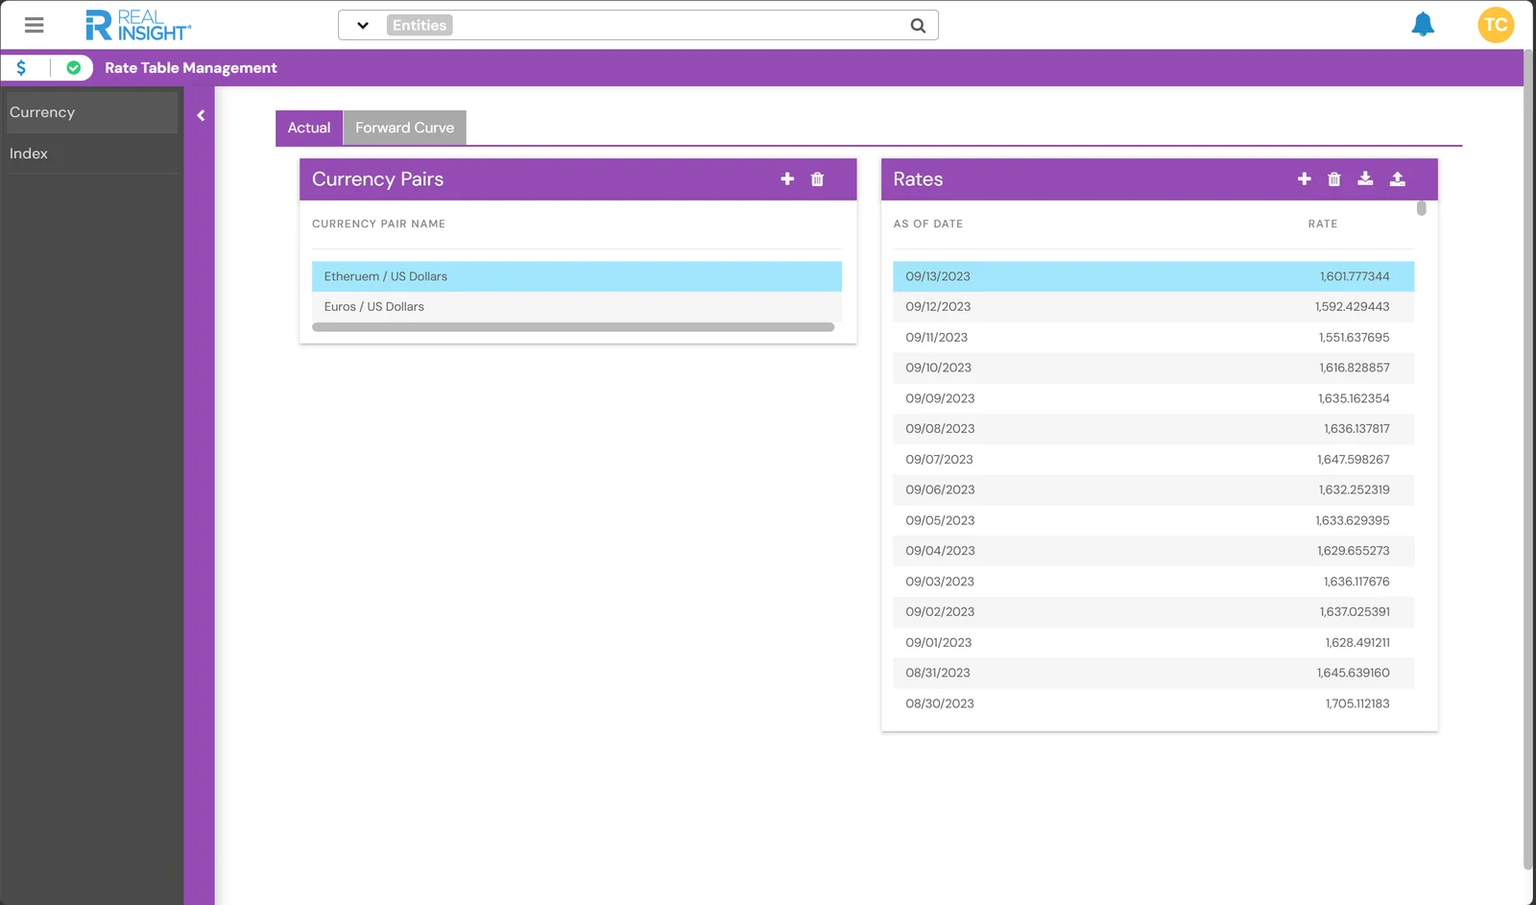
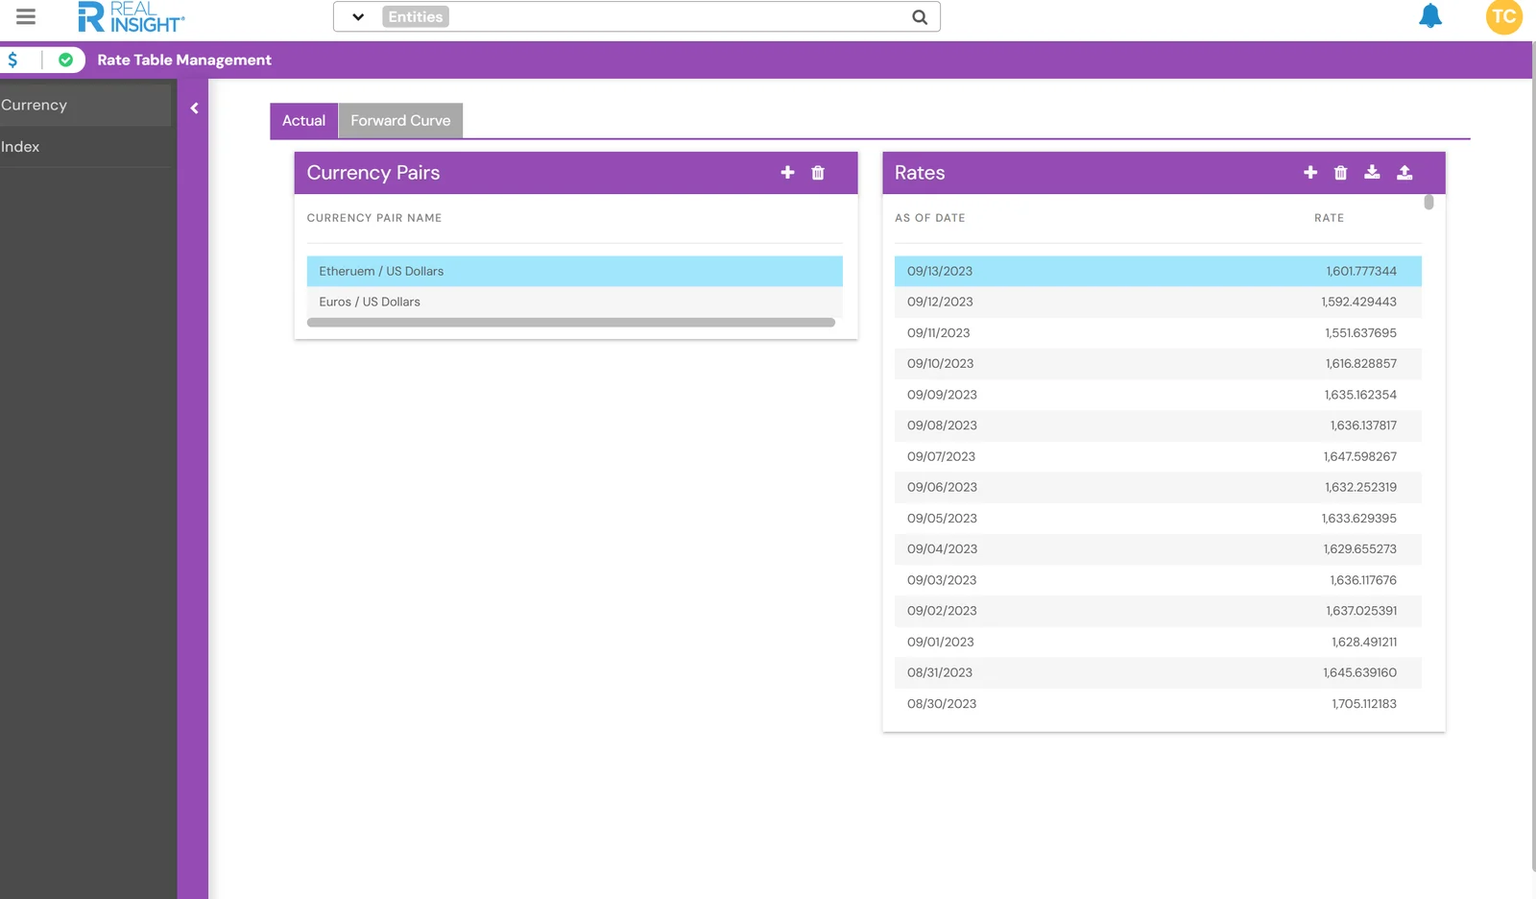
Case study: clean crops on bento screenshots, no outline ring
Claude-Session: https://claude.ai/code/session_018hSkEAj9eib2AmZfRNussD

diff --git a/work/realinsight-design-system.html b/work/realinsight-design-system.html
@@ -48,7 +48,7 @@
 <a class="label ri-back-m" href="../index.html" style="text-decoration:none">← All work</a><div style="display: flex; flex-direction: column; gap: 24px"><h1 id="ri-title" style="margin: 0; font-size: 52px; line-height: 1.05; letter-spacing: -0.03em; font-weight: 600">The building of RealInsight's design system</h1><p class="lede">An evolving system of tokens and components that support the complexities of commercial real estate finance technology.</p><div style="display: grid; grid-template-columns: repeat(4, minmax(0, 1fr)); gap: 16px; padding: 20px 0; border-top: 1px solid #ececf1; border-bottom: 1px solid #ececf1"><div style="display: flex; flex-direction: column; gap: 4px"><span class="mono">Role</span><span>Product Designer</span></div><div style="display: flex; flex-direction: column; gap: 4px"><span class="mono">Timeline</span><span class="ph">June 2026 - Present</span></div><div style="display: flex; flex-direction: column; gap: 4px"><span class="mono">Team</span><span>Tiffany Chang, Designer<br/>JP Eiler, Developer</span></div><div style="display: flex; flex-direction: column; gap: 4px"><span class="mono">Tools</span><span>Figma<br/>Claude<br/>Codex</span></div></div><p>RealInsight is a cloud platform that banks, debt funds, insurers and agency lenders use to manage commercial real estate loans, from origination and underwriting through servicing and asset management. Over the years each module grew its own interface, built on three separate component libraries with no designer involved. I built the platform's first unified design system: semantic tokens with light and dark modes, 30 components, and a Figma library that stays in sync with code.</p></div><div class="hx-wrap"><div class="hx" role="img" aria-label="Animation: the RealInsight Figma file moving from color tokens to buttons, components and a finished invoices screen that switches to dark mode"><div class="hx-win"><div class="hx-bar"><span class="hx-dots"><i></i><i></i><i></i></span><span class="hx-file">Drafts / <b>RealInsight-Design</b></span><span style="font: 600 10px/1 Geist, sans-serif; color: #fff; background: #f2542d; width: 18px; height: 18px; border-radius: 50%; display: grid; place-items: center">T</span></div><div class="hx-body"><div class="hx-pages"><h6>Pages</h6><ul><i class="hx-hl"></i><li>Cover</li><li>Color</li><li>Typography</li><li>Spacing & radii</li><li>Buttons</li><li>Components</li><li>Icons</li><li>Invoices</li></ul></div><div class="hx-cv"><div class="hx-sc" style="animation-delay: 0s"><div class="hx-frame"><div class="hx-flabel">Color / Semantic tokens</div><div style="display: grid; grid-template-columns: repeat(12, 22px); gap: 6px; padding: 14px; background: #fff; border-radius: 8px; box-shadow: 0 0 0 1px rgba(11,11,11,.06)"><i class="hx-sw hx-pop" style="background: #2D3134; animation-delay: 0.35s"></i><i class="hx-sw hx-pop" style="background: #1F8ACA; animation-delay: 0.38s"></i><i class="hx-sw hx-pop" style="background: #256D2B; animation-delay: 0.40s"></i><i class="hx-sw hx-pop" style="background: #D67E14; animation-delay: 0.42s"></i><i class="hx-sw hx-pop" style="background: #BC1A1A; animation-delay: 0.45s"></i><i class="hx-sw hx-pop" style="background: #C74B1A; animation-delay: 0.47s"></i><i class="hx-sw hx-pop" style="background: #89972B; animation-delay: 0.50s"></i><i class="hx-sw hx-pop" style="background: #24768C; animation-delay: 0.53s"></i><i class="hx-sw hx-pop" style="background: #2B6E65; animation-delay: 0.55s"></i><i class="hx-sw hx-pop" style="background: #3450CB; animation-delay: 0.57s"></i><i class="hx-sw hx-pop" style="background: #8035CA; animation-delay: 0.60s"></i><i class="hx-sw hx-pop" style="background: #B62B6D; animation-delay: 0.62s"></i><i class="hx-sw hx-pop" style="background: rgba(45,49,52,0.16); animation-delay: 0.65s"></i><i class="hx-sw hx-pop" style="background: rgba(31,138,202,0.16); animation-delay: 0.68s"></i><i class="hx-sw hx-pop" style="background: rgba(37,109,43,0.16); animation-delay: 0.70s"></i><i class="hx-sw hx-pop" style="background: rgba(214,126,20,0.16); animation-delay: 0.72s"></i><i class="hx-sw hx-pop" style="background: rgba(188,26,26,0.16); animation-delay: 0.75s"></i><i class="hx-sw hx-pop" style="background: rgba(199,75,26,0.16); animation-delay: 0.78s"></i><i class="hx-sw hx-pop" style="background: rgba(137,151,43,0.16); animation-delay: 0.80s"></i><i class="hx-sw hx-pop" style="background: rgba(36,118,140,0.16); animation-delay: 0.82s"></i><i class="hx-sw hx-pop" style="background: rgba(43,110,101,0.16); animation-delay: 0.85s"></i><i class="hx-sw hx-pop" style="background: rgba(52,80,203,0.16); animation-delay: 0.88s"></i><i class="hx-sw hx-pop" style="background: rgba(128,53,202,0.16); animation-delay: 0.90s"></i><i class="hx-sw hx-pop" style="background: rgba(182,43,109,0.16); animation-delay: 0.93s"></i><i class="hx-sw hx-pop" style="background: #5F646A; animation-delay: 0.95s"></i><i class="hx-sw hx-pop" style="background: #1F8ACA; animation-delay: 0.97s"></i><i class="hx-sw hx-pop" style="background: #256D2B; animation-delay: 1.00s"></i><i class="hx-sw hx-pop" style="background: #7E4C11; animation-delay: 1.02s"></i><i class="hx-sw hx-pop" style="background: #951818; animation-delay: 1.05s"></i><i class="hx-sw hx-pop" style="background: #763015; animation-delay: 1.08s"></i><i class="hx-sw hx-pop" style="background: #646D22; animation-delay: 1.10s"></i><i class="hx-sw hx-pop" style="background: #1D5A69; animation-delay: 1.12s"></i><i class="hx-sw hx-pop" style="background: #2B6E65; animation-delay: 1.15s"></i><i class="hx-sw hx-pop" style="background: #283985; animation-delay: 1.18s"></i><i class="hx-sw hx-pop" style="background: #572985; animation-delay: 1.20s"></i><i class="hx-sw hx-pop" style="background: #922659; animation-delay: 1.23s"></i></div></div></div><div class="hx-sc" style="animation-delay: 3.5s"><div class="hx-frame"><div class="hx-flabel">Button / 4 sizes · 7 styles · 5 states</div><div style="display: grid; grid-template-columns: repeat(2, auto); gap: 12px 16px; padding: 16px; background: #fff; border-radius: 8px; box-shadow: 0 0 0 1px rgba(11,11,11,.06)"><div class="hx-pop" style="display: flex; flex-direction: column; align-items: center; gap: 6px; animation-delay: 3.85s"><span class="hx-btn" style="position: relative; background: #1F8ACA; color: #F9F9F9; "><i class="hx-sel"></i>Create invoice</span><span style="font: 500 9px/1 Geist, sans-serif; color: #8a8e9c">Brand</span></div><div class="hx-pop" style="display: flex; flex-direction: column; align-items: center; gap: 6px; animation-delay: 3.91s"><span class="hx-btn" style="position: relative; background: #2D3134; color: #F9F9F9; ">Create invoice</span><span style="font: 500 9px/1 Geist, sans-serif; color: #8a8e9c">Neutral</span></div><div class="hx-pop" style="display: flex; flex-direction: column; align-items: center; gap: 6px; animation-delay: 3.97s"><span class="hx-btn" style="position: relative; background: rgba(31,138,202,0.16); color: #1F8ACA; ">Create invoice</span><span style="font: 500 9px/1 Geist, sans-serif; color: #8a8e9c">Tonal</span></div><div class="hx-pop" style="display: flex; flex-direction: column; align-items: center; gap: 6px; animation-delay: 4.03s"><span class="hx-btn" style="position: relative; background: #BC1A1A; color: #F9F9F9; ">Create invoice</span><span style="font: 500 9px/1 Geist, sans-serif; color: #8a8e9c">Danger</span></div><div class="hx-pop" style="display: flex; flex-direction: column; align-items: center; gap: 6px; animation-delay: 4.09s"><span class="hx-btn" style="position: relative; background: #fff; color: #2D3134; box-shadow: inset 0 0 0 1px rgba(11,11,11,.16);">Create invoice</span><span style="font: 500 9px/1 Geist, sans-serif; color: #8a8e9c">Outline</span></div><div class="hx-pop" style="display: flex; flex-direction: column; align-items: center; gap: 6px; animation-delay: 4.15s"><span class="hx-btn" style="position: relative; background: transparent; color: #2D3134; ">Create invoice</span><span style="font: 500 9px/1 Geist, sans-serif; color: #8a8e9c">Ghost</span></div><div class="hx-pop" style="display: flex; flex-direction: column; align-items: center; gap: 6px; animation-delay: 4.21s"><span class="hx-btn" style="position: relative; background: transparent; color: #1F8ACA; text-decoration: underline;">Create invoice</span><span style="font: 500 9px/1 Geist, sans-serif; color: #8a8e9c">Link</span></div></div></div></div><div class="hx-sc" style="animation-delay: 7s"><div class="hx-frame"><div class="hx-flabel">Components / 30 · 970 variants</div><div style="display: grid; grid-template-columns: auto auto; gap: 16px 22px; align-items: center; padding: 16px; background: #fff; border-radius: 8px; box-shadow: 0 0 0 1px rgba(11,11,11,.06)"><div class="hx-pop" style="animation-delay: 7.35s; "><div style="width: 150px"><div style="font-size: 9px; color: #5F646A; margin-bottom: 4px">Amount</div><div style="height: 26px; border-radius: 6px; box-shadow: inset 0 0 0 1px rgba(11,11,11,.16); background: #fff; font-size: 10px; display: flex; align-items: center; padding: 0 8px">12,400.00</div></div></div><div class="hx-pop" style="animation-delay: 7.45s; "><div style="display: flex; gap: 10px; align-items: center"><span style="width: 26px; height: 15px; border-radius: 999px; background: #1F8ACA; position: relative"><i style="position: absolute; right: 2px; top: 2px; width: 11px; height: 11px; border-radius: 50%; background: #fff"></i></span><span style="width: 14px; height: 14px; border-radius: 4px; background: #1F8ACA; color: #fff; font-size: 10px; display: grid; place-items: center">✓</span><span style="width: 14px; height: 14px; border-radius: 4px; box-shadow: inset 0 0 0 1.5px rgba(11,11,11,.24)"></span></div></div><div class="hx-pop" style="animation-delay: 7.55s; "><div style="display: flex; gap: 4px"><span class="hx-bdg" style="background: rgba(37,109,43,0.14); color: #256D2B">Paid</span><span class="hx-bdg" style="background: rgba(214,126,20,0.14); color: #7E4C11">Due</span><span class="hx-bdg" style="background: rgba(188,26,26,0.14); color: #951818">Overdue</span><span class="hx-bdg" style="background: rgba(45,49,52,0.14); color: #5F646A">Draft</span></div></div><div class="hx-pop" style="animation-delay: 7.65s; "><div style="display: flex; gap: 4px; font-size: 10px"><span style="padding: 5px 9px; border-radius: 999px; background: #2D3134; color: #fff">All</span><span style="padding: 5px 9px; color: #5F646A">Open</span><span style="padding: 5px 9px; color: #5F646A">Paid</span></div></div><div class="hx-pop" style="animation-delay: 7.75s; grid-column: span 2"><div style="display: flex; gap: 6px; align-items: center; font-size: 10px; padding: 7px 10px; border-radius: 6px; background: rgba(31,138,202,.12); color: #1D5A69; width: 190px"><b style="color: #1F8ACA">i</b>Rates updated for September</div></div></div></div></div><div class="hx-sc" style="animation-delay: 10.5s"><div class="hx-frame"><div class="hx-flabel">Invoices / Light → Dark</div><div style="position: relative"><div class="hx-inv l"><div style="display: flex; justify-content: space-between; align-items: center; margin-bottom: 10px"><b style="font-size: 13px; font-weight: 600">Invoices</b><span class="hx-btn" style="background: #1F8ACA; color: #F9F9F9; height: 22px; font-size: 10px; padding: 0 10px">Create invoice</span></div><div class="hx-tr" style="border: 0; color: #5F646A; font-size: 9px; height: 18px"><span>PROPERTY</span><span>AMOUNT</span><span>STATUS</span></div><div class="hx-tr" style="border-color: rgba(11,11,11,.08)"><span>Harbor Point Apts</span><span style="color: #5F646A">$12,400</span><span class="hx-bdg" style="background: rgba(37,109,43,0.16); color: #256D2B">Paid</span></div><div class="hx-tr" style="border-color: rgba(11,11,11,.08)"><span>Elm St Retail</span><span style="color: #5F646A">$8,150</span><span class="hx-bdg" style="background: rgba(214,126,20,0.16); color: #7E4C11">Due</span></div><div class="hx-tr" style="border-color: rgba(11,11,11,.08)"><span>Northgate Office</span><span style="color: #5F646A">$21,900</span><span class="hx-bdg" style="background: rgba(188,26,26,0.16); color: #951818">Overdue</span></div><div class="hx-tr" style="border-color: rgba(11,11,11,.08)"><span>Bayview Lofts</span><span style="color: #5F646A">$5,600</span><span class="hx-bdg" style="background: rgba(45,49,52,0.16); color: #5F646A">Draft</span></div></div><div class="hx-inv d"><div style="display: flex; justify-content: space-between; align-items: center; margin-bottom: 10px"><b style="font-size: 13px; font-weight: 600">Invoices</b><span class="hx-btn" style="background: #44A5DE; color: #0B0B0B; height: 22px; font-size: 10px; padding: 0 10px">Create invoice</span></div><div class="hx-tr" style="border: 0; color: #888E94; font-size: 9px; height: 18px"><span>PROPERTY</span><span>AMOUNT</span><span>STATUS</span></div><div class="hx-tr" style="border-color: rgba(249,249,249,.10)"><span>Harbor Point Apts</span><span style="color: #888E94">$12,400</span><span class="hx-bdg" style="background: rgba(37,109,43,0.22); color: #55C95F">Paid</span></div><div class="hx-tr" style="border-color: rgba(249,249,249,.10)"><span>Elm St Retail</span><span style="color: #888E94">$8,150</span><span class="hx-bdg" style="background: rgba(214,126,20,0.22); color: #E99B3D">Due</span></div><div class="hx-tr" style="border-color: rgba(249,249,249,.10)"><span>Northgate Office</span><span style="color: #888E94">$21,900</span><span class="hx-bdg" style="background: rgba(188,26,26,0.22); color: #E44444">Overdue</span></div><div class="hx-tr" style="border-color: rgba(249,249,249,.10)"><span>Bayview Lofts</span><span style="color: #888E94">$5,600</span><span class="hx-bdg" style="background: rgba(45,49,52,0.22); color: #888E94">Draft</span></div></div></div></div></div></div><div class="hx-insp"><div class="hx-sc" style="animation-delay: 0s"><h6 style="margin-left: 0">Variable</h6><div class="hx-row"><span>Name</span><b>brand/bold</b></div><div class="hx-row"><span>Light</span><b>#1F8ACA</b></div><div class="hx-row"><span>Dark</span><b>#44A5DE</b></div><div class="hx-row"><span>Modes</span><b>2</b></div></div><div class="hx-sc" style="animation-delay: 3.5s"><h6 style="margin-left: 0">Button</h6><div class="hx-row"><span>Size</span><b>sm</b></div><div class="hx-row"><span>Style</span><b>Brand</b></div><div class="hx-row"><span>State</span><b>Default</b></div><div class="hx-row"><span>Radius</span><b>lg · 10</b></div></div><div class="hx-sc" style="animation-delay: 7s"><h6 style="margin-left: 0">Library</h6><div class="hx-row"><span>Components</span><b>30</b></div><div class="hx-row"><span>Variants</span><b>970</b></div><div class="hx-row"><span>Tokens</span><b>94</b></div><div class="hx-row"><span>Synced</span><b>Code</b></div></div><div class="hx-sc" style="animation-delay: 10.5s"><h6 style="margin-left: 0">Frame</h6><div class="hx-row"><span>Page</span><b>Invoices</b></div><div class="hx-row"><span>Mode</span><b>Light → Dark</b></div><div class="hx-row"><span>Tokens</span><b>Semantic</b></div><div class="hx-row"><span>Raw colors</span><b>0</b></div></div></div></div></div><div class="hx-cur"><svg width="14" height="16" viewBox="0 0 14 16"><path d="M1 1l11 6.5-5 1.2L4.6 14z" fill="#f2542d" stroke="#fff" stroke-width="1.2" stroke-linejoin="round"/></svg><span>Tiffany</span></div></div></div>
   </section>
   <section id="started">
-<div style="display: flex; flex-direction: column; gap: 24px"><h2>Where it started</h2><p>The platform grew for over a decade without a designer, and every module grew its own look: a blue form builder, a red action plan and a purple rate table. Buttons, tables and tabs were rebuilt from scratch on almost every screen.</p><div style="display: grid; grid-template-columns: minmax(0, 1fr) minmax(0, 1fr); grid-template-areas: 'schema schema' 'req plan' 'rates rates'; gap: 12px"><figure style="grid-area: schema; position: relative; margin: 0; height: 472px; overflow: hidden; border-radius: 14px; background: #EEEFF2"><img alt="Legacy schema builder with a blue toolbar" src="realinsight/before-schema.webp" style="position: absolute; display: block; border-radius: 10px; box-shadow: 0 0 0 1px rgba(11,11,11,.06), 0 12px 32px rgba(20,24,40,.14); width: 640px; left: 50%; top: 48px; transform: translateX(-50%)"/></figure><figure style="grid-area: req; position: relative; margin: 0; height: 320px; overflow: hidden; border-radius: 14px; background: #EEEFF2"><img alt="Legacy messages screen with threads and a borrower conversation" src="realinsight/before-messages.webp" style="position: absolute; display: block; border-radius: 10px; box-shadow: 0 0 0 1px rgba(11,11,11,.06), 0 12px 32px rgba(20,24,40,.14); width: 600px; left: 40px; top: 40px"/></figure><figure style="grid-area: plan; position: relative; margin: 0; height: 320px; overflow: hidden; border-radius: 14px; background: #EEEFF2"><img alt="Legacy action plan table with a red header" src="realinsight/before-action-plans.webp" style="position: absolute; display: block; border-radius: 10px; box-shadow: 0 0 0 1px rgba(11,11,11,.06), 0 12px 32px rgba(20,24,40,.14); width: 760px; left: 40px; top: 40px"/></figure><figure style="grid-area: rates; position: relative; margin: 0; height: 360px; overflow: hidden; border-radius: 14px; background: #EEEFF2"><img alt="Legacy rate table screen with purple headers" src="realinsight/before-rate-tables.webp" style="position: absolute; display: block; border-radius: 10px; box-shadow: 0 0 0 1px rgba(11,11,11,.06), 0 12px 32px rgba(20,24,40,.14); width: 1000px; left: 48px; top: 48px"/></figure></div><span class="cap">Screens from the legacy platform. All data is test data.</span></div>
+<div style="display: flex; flex-direction: column; gap: 24px"><h2>Where it started</h2><p>The platform grew for over a decade without a designer, and every module grew its own look: a blue form builder, a red action plan and a purple rate table. Buttons, tables and tabs were rebuilt from scratch on almost every screen.</p><div style="display: grid; grid-template-columns: minmax(0, 1fr) minmax(0, 1fr); grid-template-areas: 'schema schema' 'req plan' 'rates rates'; gap: 12px"><figure style="grid-area: schema; position: relative; margin: 0; height: 472px; overflow: hidden; border-radius: 14px; background: #EEEFF2"><img alt="Legacy schema builder with a blue toolbar" src="realinsight/before-schema.webp" style="position: absolute; display: block; border-radius: 10px; box-shadow: 0 12px 32px rgba(20,24,40,.12); width: 640px; left: 50%; top: 48px; transform: translateX(-50%)"/></figure><figure style="grid-area: req; position: relative; margin: 0; height: 320px; overflow: hidden; border-radius: 14px; background: #EEEFF2"><img alt="Legacy messages screen with threads and a borrower conversation" src="realinsight/before-messages.webp" style="position: absolute; display: block; border-radius: 10px; box-shadow: 0 12px 32px rgba(20,24,40,.12); width: 600px; left: 40px; top: 40px"/></figure><figure style="grid-area: plan; position: relative; margin: 0; height: 320px; overflow: hidden; border-radius: 14px; background: #EEEFF2"><img alt="Legacy action plan table with a red header" src="realinsight/before-action-plans.webp" style="position: absolute; display: block; border-radius: 10px; box-shadow: 0 12px 32px rgba(20,24,40,.12); width: 760px; left: 40px; top: 40px"/></figure><figure style="grid-area: rates; position: relative; margin: 0; height: 360px; overflow: hidden; border-radius: 14px; background: #EEEFF2"><img alt="Legacy rate table screen with purple headers" src="realinsight/before-rate-tables.webp" style="position: absolute; display: block; border-radius: 10px; box-shadow: 0 12px 32px rgba(20,24,40,.12); width: 1000px; left: 48px; top: 48px"/></figure></div><span class="cap">Screens from the legacy platform. All data is test data.</span></div>
   </section>
   <section id="foundations">
 <div class="v2-found"><h2>Foundations</h2><div style="display: flex; flex-direction: column; gap: 16px"><span class="mono">Principle 01</span><h3>Components never touch a raw color</h3><p>Every fill, text and border is a semantic token that points to a primitive in each mode. Switching to dark mode swaps the pointers, not the components.</p><div class="panel" style="display: flex; flex-direction: column; gap: 24px"><div style="display: flex; align-items: center; gap: 16px; flex-wrap: wrap"><span style="display: flex; flex-direction: column; gap: 2px"><span class="mono">Primitive</span><code style="font: 500 13px/1.3 'Geist Mono', monospace">Brand Blue/500</code></span><span style="color: #b4b7c2">→</span><span style="display: flex; flex-direction: column; gap: 2px"><span class="mono">Semantic token</span><code style="font: 500 13px/1.3 'Geist Mono', monospace">background/brand/bold</code></span><span style="color: #b4b7c2">→</span><span style="display: flex; flex-direction: column; gap: 2px"><span class="mono">Component</span><code style="font: 500 13px/1.3 'Geist Mono', monospace">Button / Brand</code></span></div><div style="display: flex; gap: 16px"><div class="ds" style="flex: 1; background: #F9F9F9; border-radius: 12px; padding: 20px; display: flex; flex-direction: column; gap: 12px"><span class="mono" style="color: #5F646A">Light</span><div style="background: #FFFFFF; border: 1px solid rgba(11,11,11,.12); border-radius: 12px; padding: 16px; display: flex; flex-direction: column; gap: 10px"><b style="font-size: 15px; font-weight: 600; color: #2D3134">New invoice</b><span style="font-size: 13px; color: #5F646A">Due in 14 days</span><span class="btn" style="align-self: flex-start; background: #1F8ACA; color: #fff">Create invoice</span></div></div><div class="ds" style="flex: 1; background: #181A1D; border-radius: 12px; padding: 20px; display: flex; flex-direction: column; gap: 12px"><span class="mono" style="color: #888E94">Dark</span><div style="background: #212427; border: 1px solid rgba(249,249,249,.12); border-radius: 12px; padding: 16px; display: flex; flex-direction: column; gap: 10px"><b style="font-size: 15px; font-weight: 600; color: #F6F7F8">New invoice</b><span style="font-size: 13px; color: #888E94">Due in 14 days</span><span class="btn" style="align-self: flex-start; background: #44A5DE; color: #0B0B0B">Create invoice</span></div></div></div></div><span class="cap">Same component, same tokens. Only the mode changes.</span></div><div style="display: flex; flex-direction: column; gap: 16px"><span class="mono">Principle 02</span><h3>One type scale, one rhythm</h3><p>DM Sans carries the product and Fields handles display moments. Every style sits on a 150% line height, so text from any part of the platform stacks cleanly.</p><div class="panel" style="display: flex; flex-direction: column; gap: 4px"><div style="display: grid; grid-template-columns: 64px 1fr; align-items: baseline; gap: 16px; background-image: repeating-linear-gradient(transparent 0 calc(1.5em - 1px), rgba(242,84,45,.18) calc(1.5em - 1px) 1.5em); font:600 32px/1.5 'DM Sans'"><span style="font: 500 11px/1 'Geist Mono', monospace; color: #8a8e9c">H1</span><span style="color: #2D3134">Create invoice</span></div><div style="display: grid; grid-template-columns: 64px 1fr; align-items: baseline; gap: 16px; background-image: repeating-linear-gradient(transparent 0 calc(1.5em - 1px), rgba(242,84,45,.18) calc(1.5em - 1px) 1.5em); font:600 20px/1.5 'DM Sans'"><span style="font: 500 11px/1 'Geist Mono', monospace; color: #8a8e9c">H3</span><span style="color: #2D3134">Create invoice</span></div><div style="display: grid; grid-template-columns: 64px 1fr; align-items: baseline; gap: 16px; background-image: repeating-linear-gradient(transparent 0 calc(1.5em - 1px), rgba(242,84,45,.18) calc(1.5em - 1px) 1.5em); font:400 16px/1.5 'DM Sans'"><span style="font: 500 11px/1 'Geist Mono', monospace; color: #8a8e9c">Text2</span><span style="color: #2D3134">Create invoice</span></div><div style="display: grid; grid-template-columns: 64px 1fr; align-items: baseline; gap: 16px; background-image: repeating-linear-gradient(transparent 0 calc(1.5em - 1px), rgba(242,84,45,.18) calc(1.5em - 1px) 1.5em); font:400 12px/1.5 'DM Sans'"><span style="font: 500 11px/1 'Geist Mono', monospace; color: #8a8e9c">Text4</span><span style="color: #2D3134">Create invoice</span></div></div><span class="cap">The red lines mark the 150% line height on each style.</span></div><div style="display: flex; flex-direction: column; gap: 16px"><span class="mono">Principle 03</span><h3>Radius by role, not by taste</h3><p>Corners say what an element is. Inputs use md, buttons use lg, and cards use xl, so nested elements always step down as they go in.</p><div class="panel" style="display: grid; place-items: center"><div class="ds" style="background: #fff; border-radius: 12px; box-shadow: inset 0 0 0 1px rgba(11,11,11,.12); padding: 20px; display: flex; flex-direction: column; gap: 12px; width: 300px"><span style="font-size: 13px; color: #5F646A">Amount</span><span style="height: 36px; border-radius: 8px; box-shadow: inset 0 0 0 1px rgba(11,11,11,.12); background: #F9F9F9; display: flex; align-items: center; padding: 0 12px; color: #2D3134">12,400.00</span><span class="btn" style="background: #1F8ACA; color: #fff; align-self: flex-end">Create invoice</span></div><div style="display: flex; gap: 24px; margin-top: 16px"><span class="cap">Card · xl 12</span><span class="cap">Input · md 8</span><span class="cap">Button · lg 10</span></div></div></div></div>
